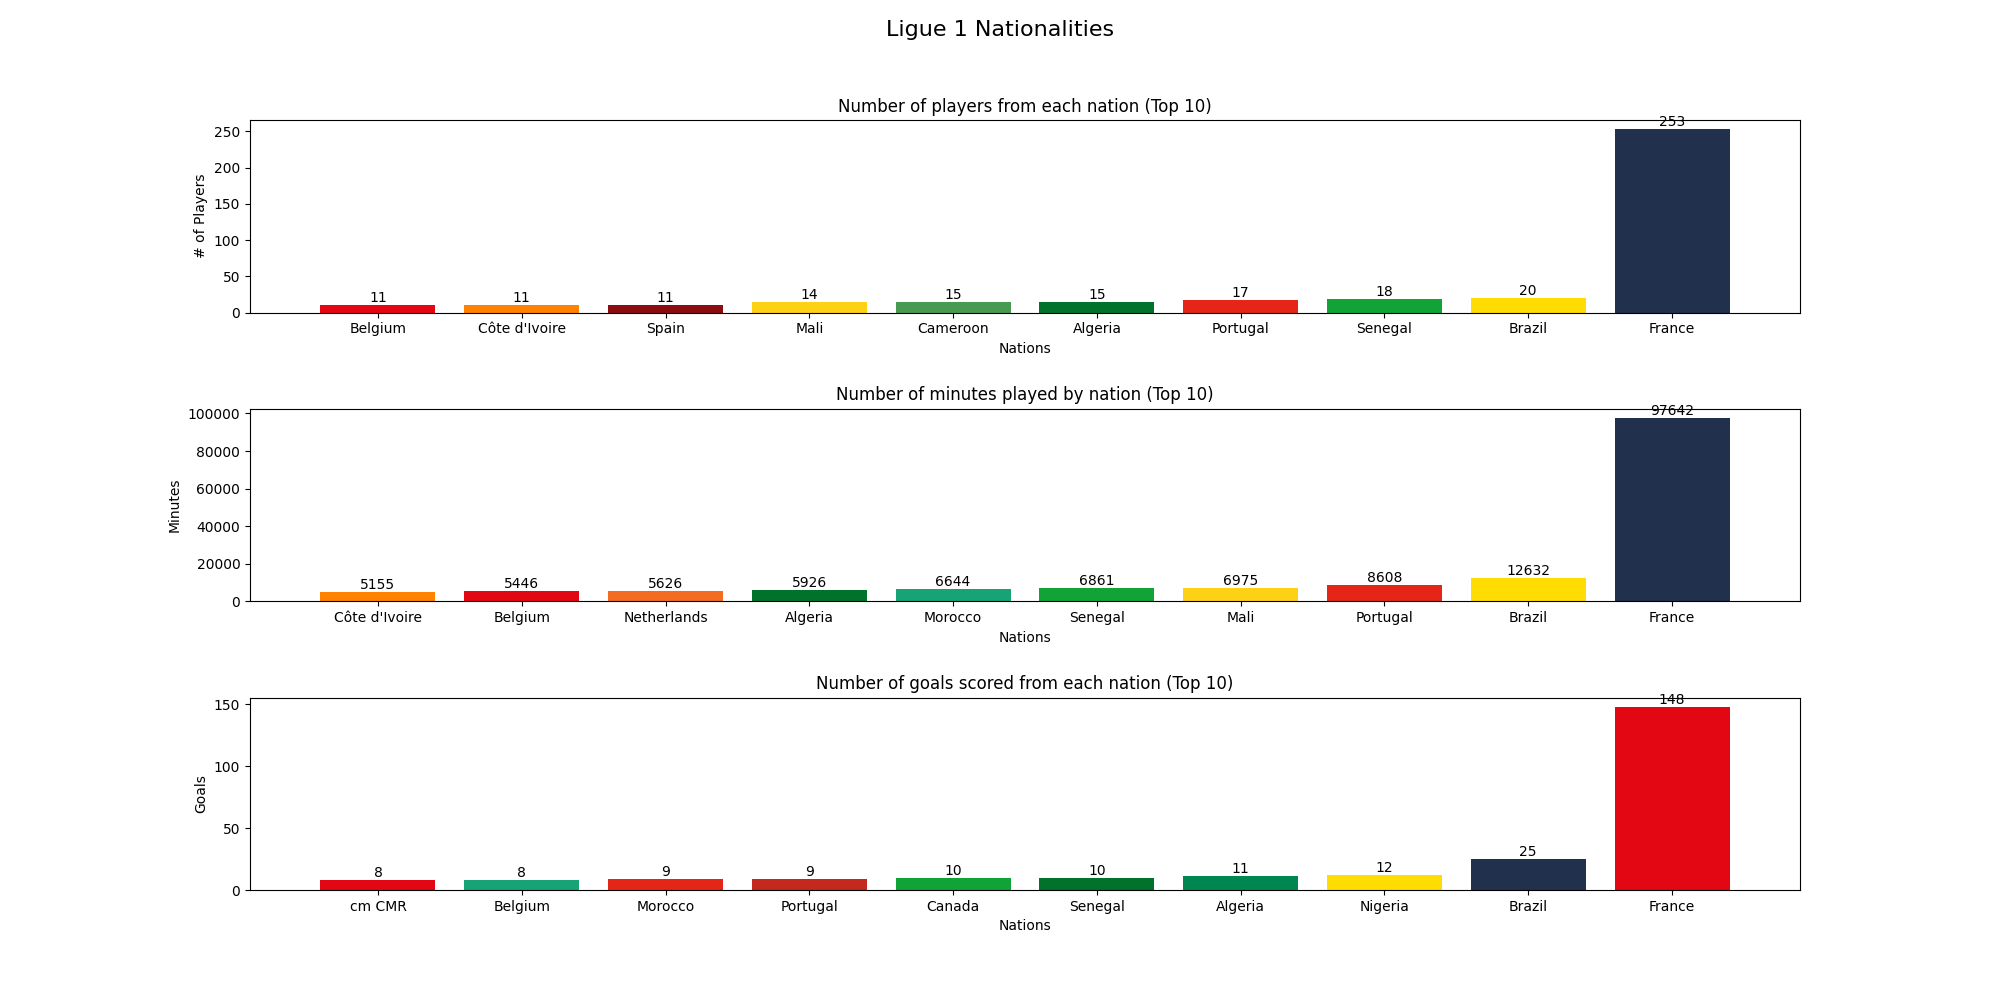
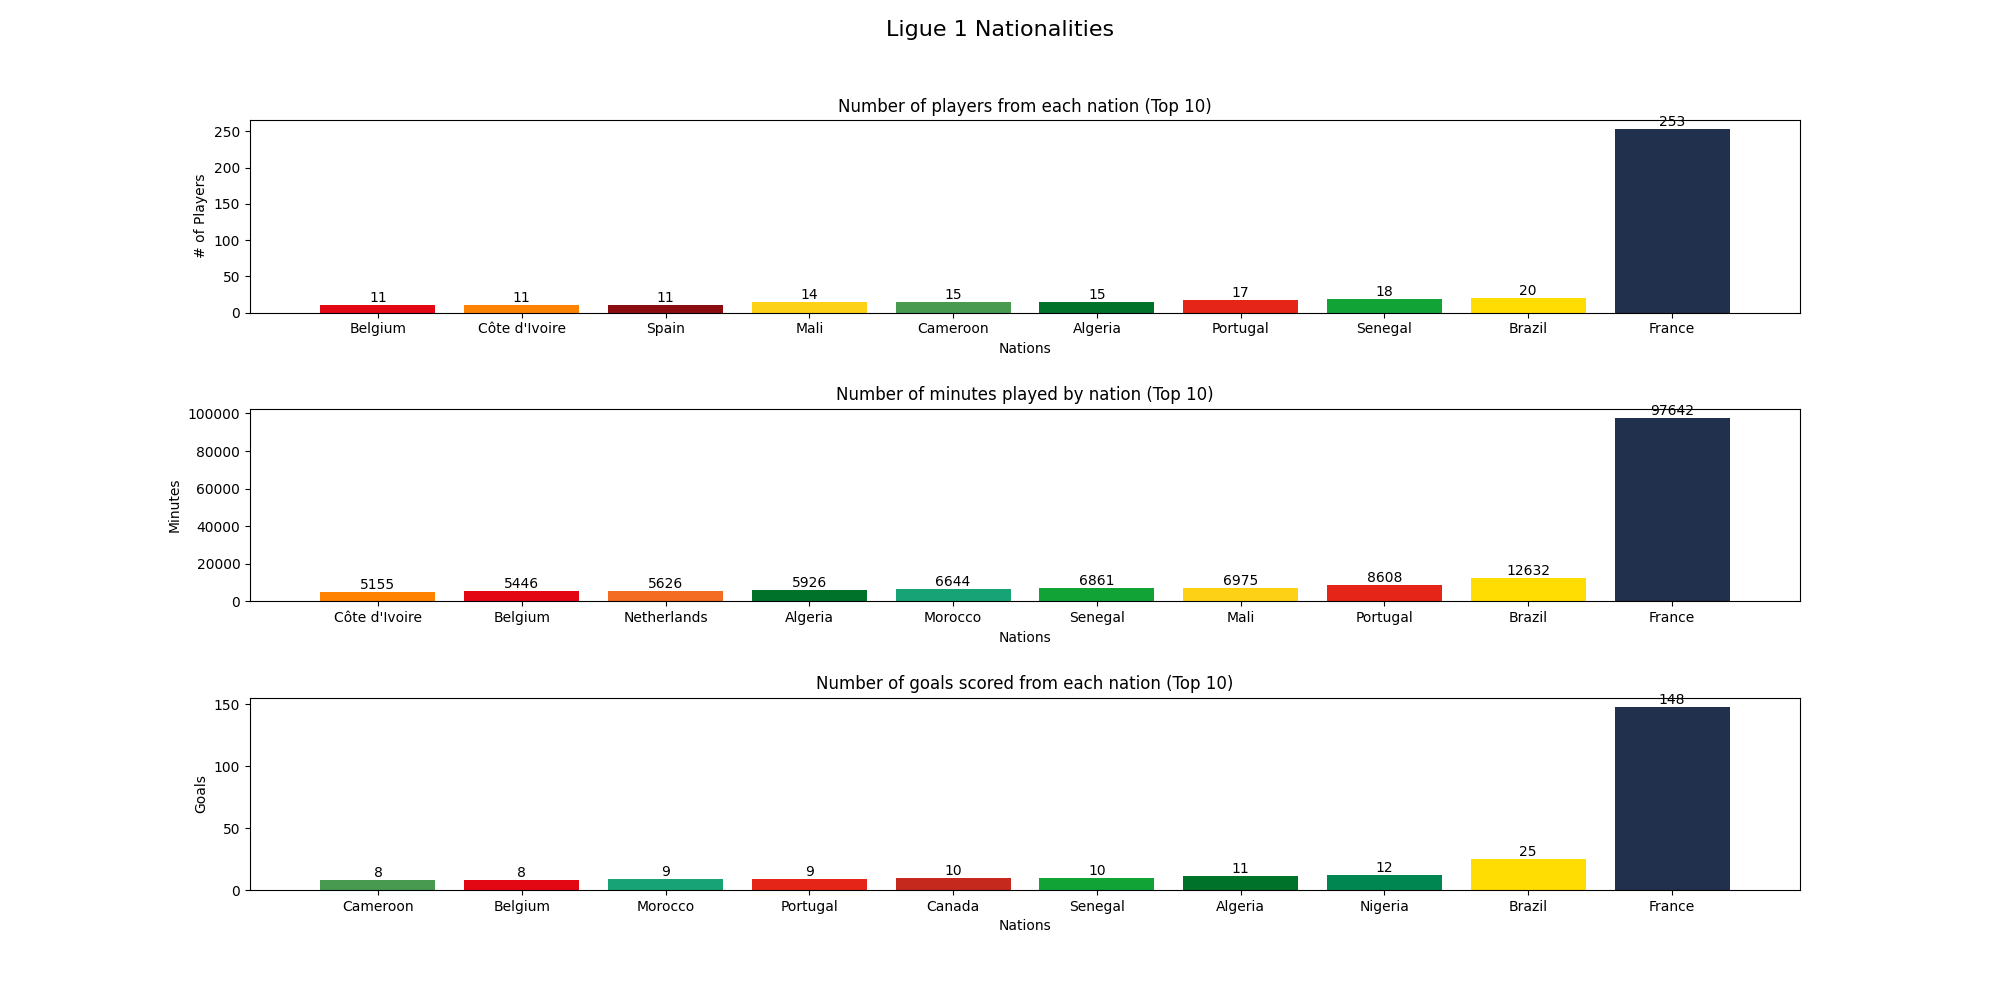
Added Cameroon colours

Changed region(s): [[0.155, 0.682, 0.868, 0.93]]

diff --git a/nationalities.py b/nationalities.py
@@ -79,7 +79,8 @@ def team_colours(col):
         "Cameroon": "#479A50",
         "Ghana": "#D40023",
         "Bosnia": "#002F6C",
-        "Ukraine": "#FFD700"}
+        "Ukraine": "#FFD700",
+        "Cameroon": "#479A50"}
 
     clr = []
     for team in col:
@@ -120,7 +121,8 @@ def dict_conversion(country):
                 'xk KVX': 'Kosovo',
                 'ua UKR': 'Ukraine',
                 'gh GHA': 'Ghana',
-                'ba BIH': 'Bosnia'}
+                'ba BIH': 'Bosnia',
+                'cm CMR': 'Cameroon'}
     return countries.get(country)
 
 
